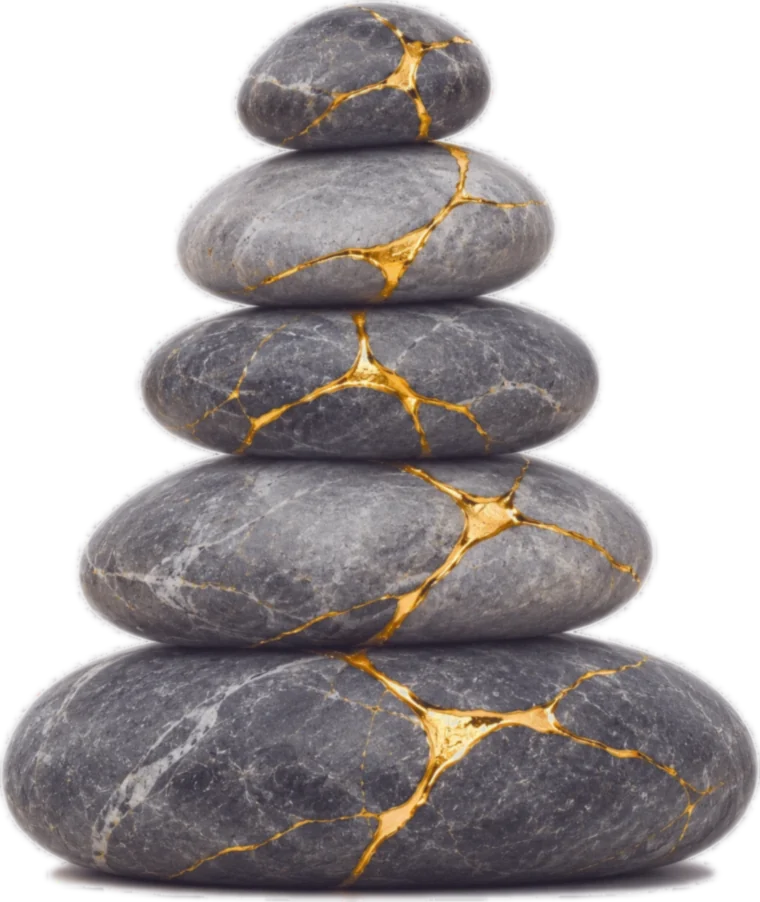
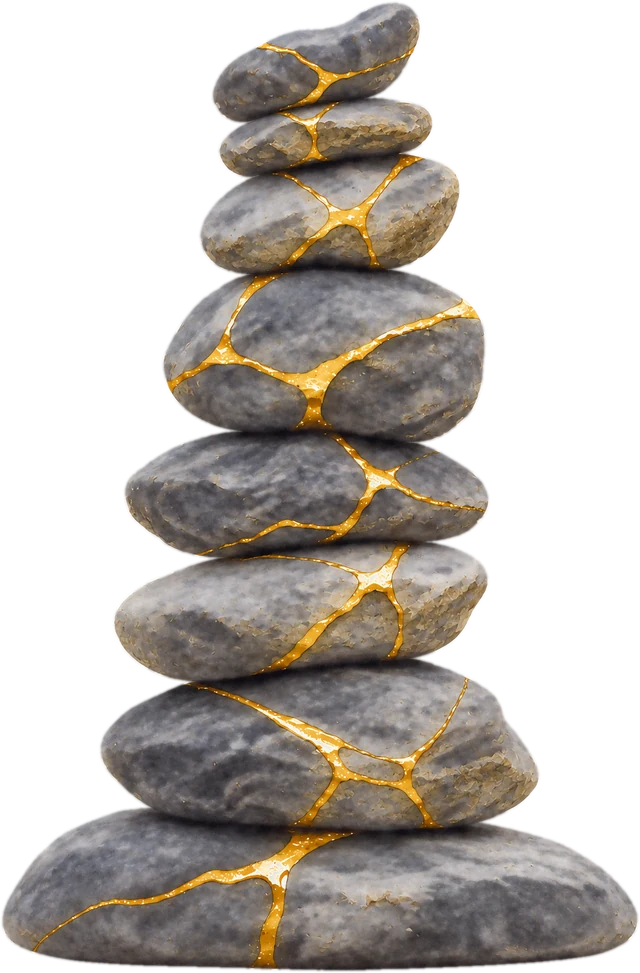
Accueil : nouveau cairn kintsugi, citation alignée sur l'étape 05 (#15)
* Accueil : nouveau cairn kintsugi (grain retravaillé, adouci), dimensions mises à jour

Claude-Session: https://claude.ai/code/session_015Q4mEkjkDiJZjjhPL3vTbZ

* Accueil : cairn centré sur la ligne du schéma (ordinateur)

Claude-Session: https://claude.ai/code/session_015Q4mEkjkDiJZjjhPL3vTbZ

* Accueil : citation du cairn alignée sur l'étape 05 (ordinateur)

Claude-Session: https://claude.ai/code/session_015Q4mEkjkDiJZjjhPL3vTbZ

* Accueil : seuil d'alignement du cairn à 1020 px

Claude-Session: https://claude.ai/code/session_015Q4mEkjkDiJZjjhPL3vTbZ

---------

diff --git a/index.html b/index.html
@@ -696,6 +696,7 @@ figure figcaption a{padding-block:.7rem}
 .vb .ap-quote2{margin:28px auto 0;max-width:24ch;font-family:'Cormorant Garamond',serif;font-style:italic;font-weight:400;font-size:clamp(24px,2.5vw,30px);line-height:1.35;color:var(--b-ink)}
 .vb .ap-quote2::after{content:"";display:block;width:64px;height:2px;margin:18px auto 0;background:#d9a648}
 .vb #approche .ap-visual{align-self:center}
+@media (min-width:1020px){.vb #approche .ap-visual{align-self:end}.vb #approche .ap-stones{margin:0}.vb #approche .ap-quote2{margin-top:22px}.vb #approche .ap-visual{margin-bottom:-20px}}
 .vb #approche .ap-text{grid-column:1/-1;max-width:860px;margin:0 auto;text-align:center}
 .vb #approche .ap-text>p:first-child{justify-content:center}
 @media (max-width:760px){.vb #approche .ap-text{margin-top:48px}}
@@ -861,7 +862,7 @@ figure figcaption a{padding-block:.7rem}
 
 <section id="approche" style="padding:clamp(110px,13vw,180px) clamp(20px,4vw,48px)">
   <div style="max-width:1240px;margin:0 auto;display:grid;grid-template-columns:repeat(auto-fit,minmax(min(100%,420px),1fr));gap:clamp(64px,8vw,120px);align-items:start">
-    <div class="ap-visual"><figure data-reveal="0" class="ap-stones"><img src="/documents/approche-galets-kintsugi.webp" alt="" width="760" height="902" loading="lazy"><blockquote class="ap-quote2">«&nbsp;Le changement n'est pas un chemin unique.&nbsp;»</blockquote></figure></div>
+    <div class="ap-visual"><figure data-reveal="0" class="ap-stones"><img src="/documents/approche-galets-kintsugi.webp" alt="" width="640" height="973" loading="lazy"><blockquote class="ap-quote2">«&nbsp;Le changement n'est pas un chemin unique.&nbsp;»</blockquote></figure></div>
     <ol data-track="v" style="position:relative;list-style:none;margin:0;padding:0;display:flex;flex-direction:column;gap:clamp(48px,6vw,72px)">
       <li style="position:absolute;left:11px;top:12px;bottom:12px;width:1px;background:var(--b-line1)"></li>
       <li data-line="" style="position:absolute;left:11px;top:12px;bottom:12px;width:1px;background:linear-gradient(#d9a648,#d9a648 92%,rgba(217,166,72,.3));transform-origin:center top;transform:scaleY(0)"></li>
